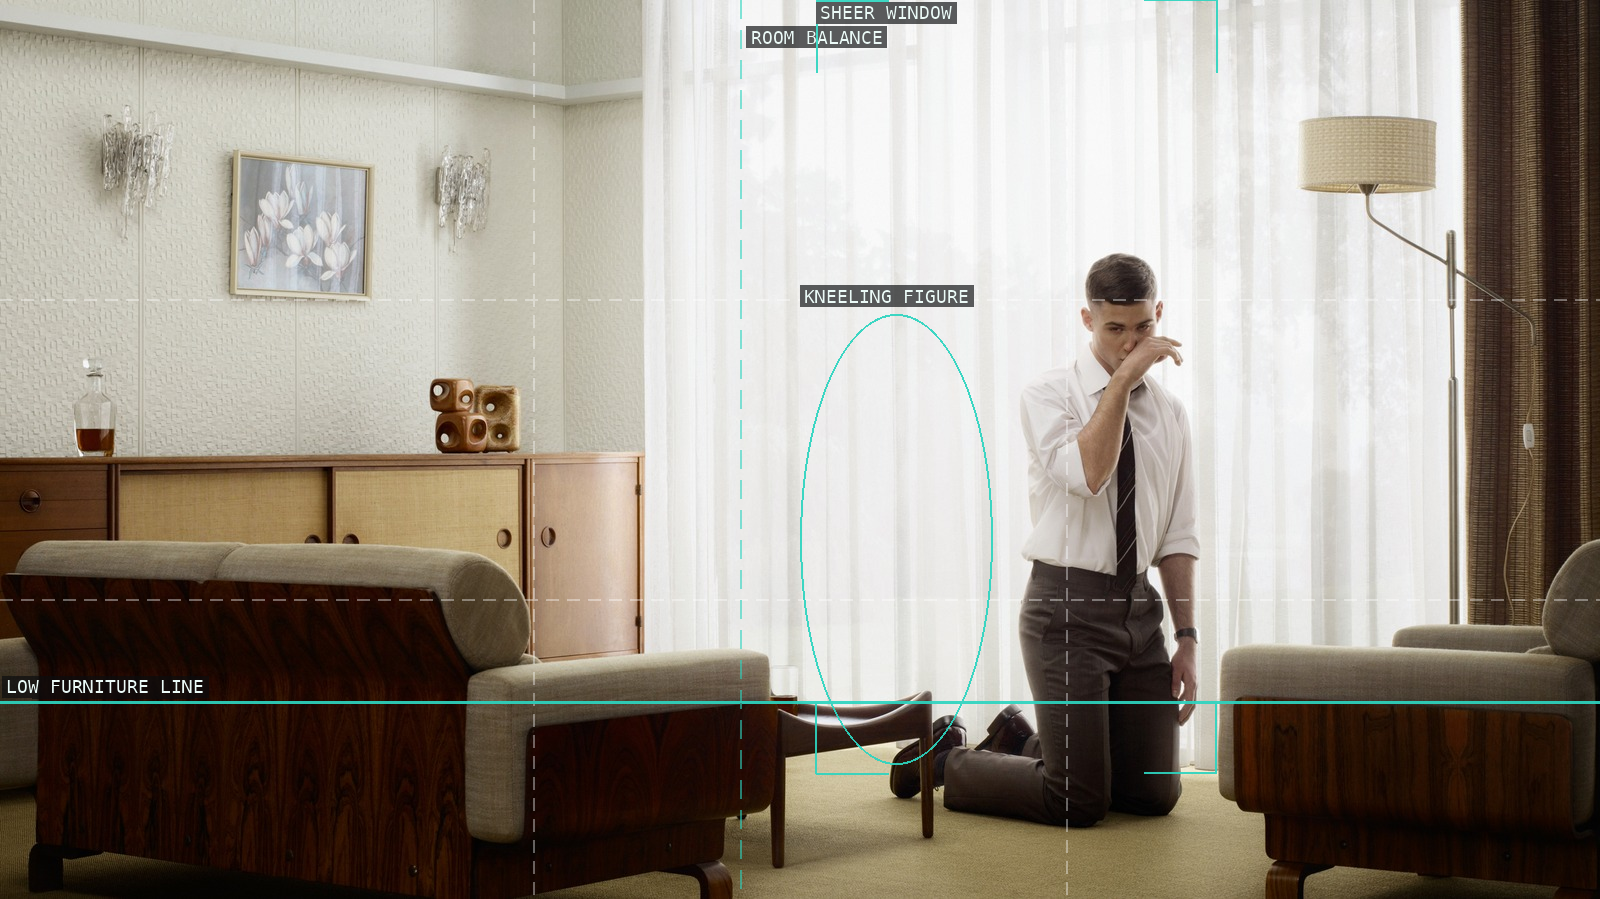
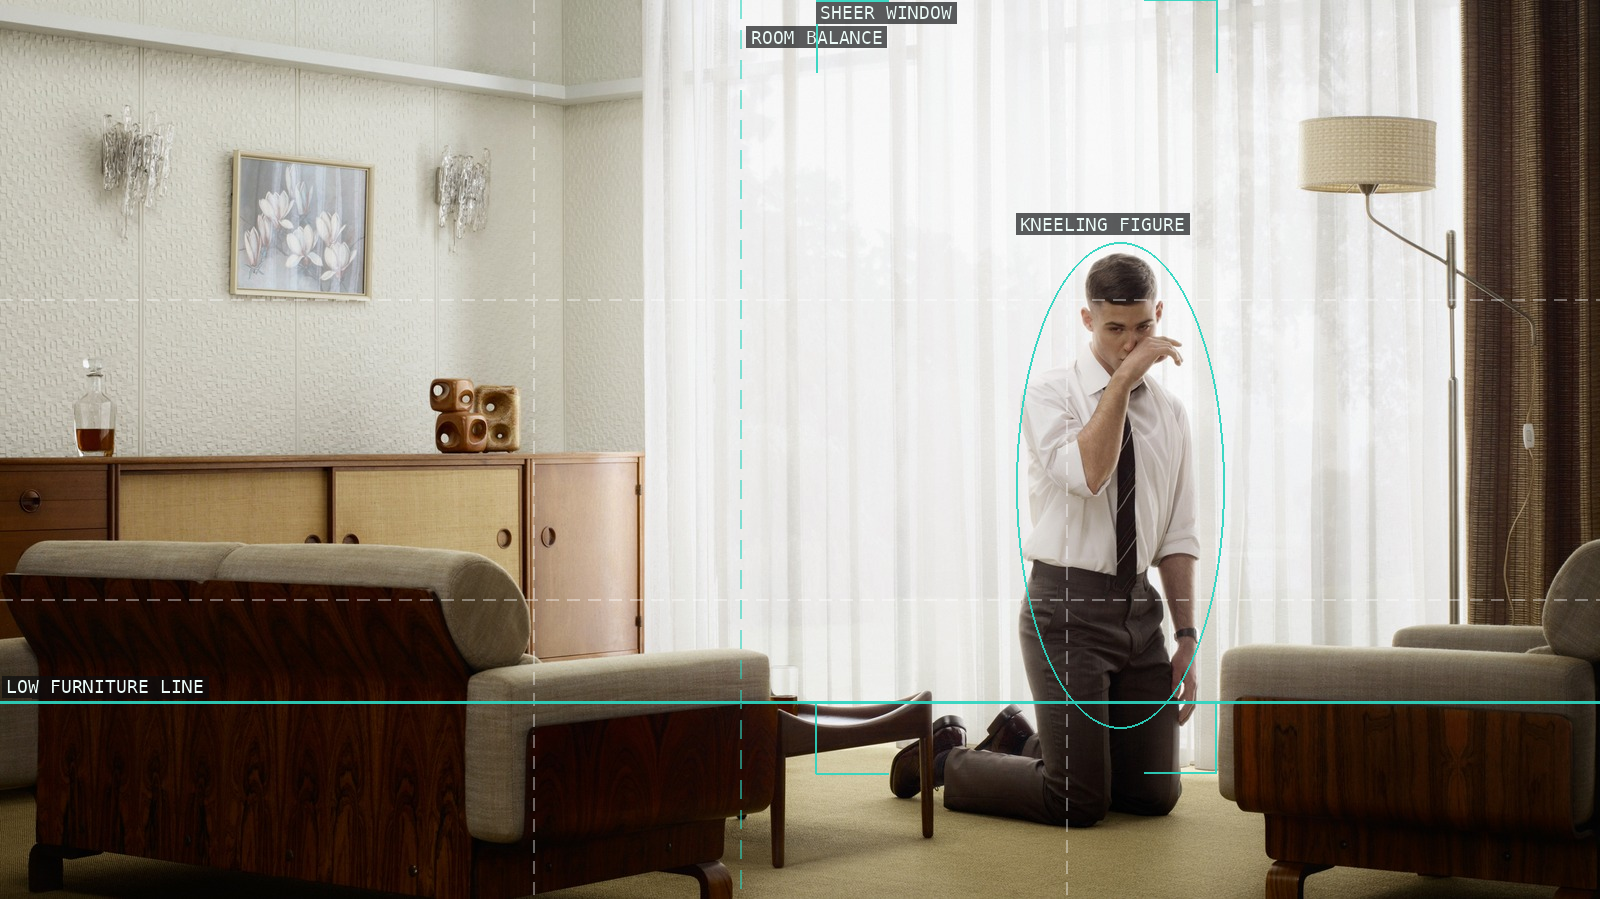
resolve critique: erwin-olaf

Changed region(s): [[0.625, 0.218, 0.75, 0.2803], [0.5, 0.3115, 0.625, 0.3426]]

diff --git a/content/erwin-olaf/critique.md b/content/erwin-olaf/critique.md
@@ -1,4 +1,4 @@
-verdict: revise
+verdict: resolved
 
 ## Critique round — 2026-08-01
 
@@ -16,3 +16,13 @@ verdict: revise
 - All twelve proofs were visually inspected. Apart from the two required marks above, their 3–5 primitive overlays identify visible, correctly named structures and pass the geometric scorer at 88–100.
 - Chapter tonal, palette, and edge-density values match the analysis files within the stated rounding tolerance. No unsupported camera-setting generalization appears; the two retained Phase One / ISO 100 records are correctly bounded to their individual delivered files.
 - Each image has a traceable official Estate source, credit, and concise per-image four-factor fair-use rationale. All twelve direct public JPEG URLs currently return HTTP 200; no limited-source condition applies.
+
+## Resolution — 2026-08-01
+
+Resolved the two required corrections from the 2026-08-01 critique round:
+
+1. **04-rain-boardroom:** Removed the false `TABLE EDGE` diagonal, which followed the open floor. The remaining `TABLE BARRIER` polyline follows the desk/table's horizontal foreground divide; the matching chapter sentence now calls it a broad barrier rather than an edge that carries the eye.
+2. **10-grief-troy:** Moved the `KNEELING FIGURE` ellipse from the empty sheer-window field to the visible kneeling man at the right of the window.
+3. **08-hope-kitchen:** An independent adversarial pass identified the same semantic issue in the non-required `TABLE EDGE` polyline: it crossed floor below the table. Removed the false line and changed the matching prose to the visible counter.
+
+All three corrected overlays were re-rendered, visually checked, and scored 100/100 against their current analyses. Re-verified all required fixes from the full prior critique history: the sole prior round, 2026-08-01. The previous advisory on 06-hope-hallway was rechecked and remains a non-blocking, visually truthful recession reading.
